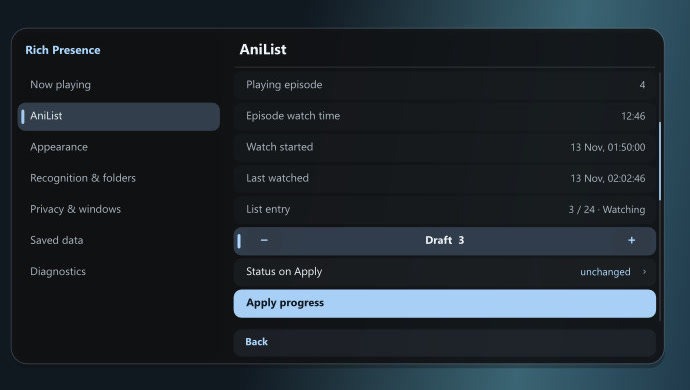
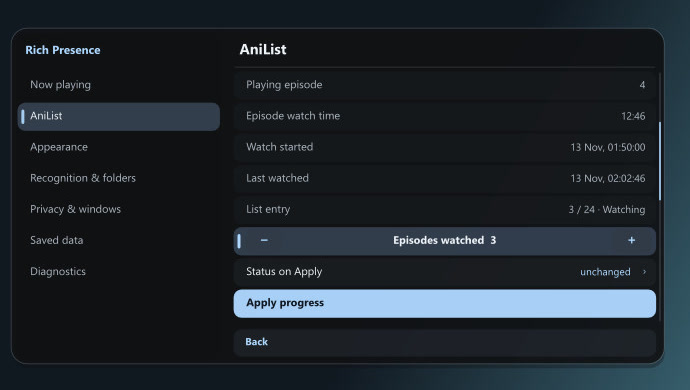
docs(guide): explain folder filters and OSC reviews

diff --git a/docs/user-guide.md b/docs/user-guide.md
@@ -55,7 +55,9 @@ To open a page from the mpv console, use `script-message-to mpv_rich_presence me
 
 ## Recognize media
 
-**Automatic** uses the v1.0.10 AniList resolver for video, including its season and sequel rules. It tries movie or TV lookup on a completed anime miss. An exact movie title and year from TMDB can disambiguate a feature-length file that loosely matches a much shorter anime from a different year. If AniList is unavailable, the card uses the local title.
+**Automatic** uses the v1.0.10 AniList resolver, including its season and sequel rules. If that search completes without a match, the plugin can try movie or TV lookup. A weak anime match can be overridden by a confirmed live-action TV episode with the same title, season and episode, or by the existing exact title and year check for feature films. Confirmed and manually pinned anime matches keep their priority. If AniList is unavailable, the card uses the local title.
+
+Common camera and screen recording names stay local in Automatic. Short videos with a bare title and no year, episode marker or TMDB ID skip the fallback movie search. Use **Local only** on a file or folder when you always want the filename or embedded metadata.
 
 Movie and TV lookup prefers TMDB. Wikidata and TVmaze provide fallbacks. Air-date episodes use TVmaze. For music, the card starts with local tags. MusicBrainz checks title, credits, duration and release edition, and Cover Art Archive supplies public artwork when available. An embedded cover stays in mpv. If the music tags are incomplete or inconclusive, the plugin can send a Chromaprint fingerprint and the track duration to AcoustID. The audio file stays on your device.
 
@@ -69,6 +71,7 @@ To classify a directory, open a file inside it and choose **Recognition & folder
 | Movies | TMDB movies with Wikidata fallback. |
 | TV | TMDB TV with TVmaze fallback. |
 | Original | AniList for anime and local titles or tags for other media. |
+| Local only | Use local titles and tags. A saved manual match can still apply. |
 
 The effective order is file, nearest matching folder, global panel setting, then `recognition_source` in the conf file. Choose **Inherit recognition source** to remove a rule. Saved match corrections still apply. **Fingerprint this file** runs an explicit AcoustID lookup on local audio.
 
@@ -98,7 +101,7 @@ To use a personal app, register a separate client in [AniList developer settings
 - **Resume unfinished time** is on by default and continues from a saved counter when you reopen an episode. Windows playing the same episode for the same account share that record.
 - **Keep offline proposals** is off by default. Turn it on to save eligible updates locally while AniList is unreachable and review them after refreshing the list entry.
 
-Use the minus and plus buttons around **Draft**, or Left and Right on that row, to adjust the proposed episode count. **Apply progress** opens a confirmation with the account, title and proposed change. The worker rechecks the entry before saving. Ordinary progress edits preserve status, score, notes and repeat count. **Status on Apply** lets you choose a status for a manual edit.
+Use the minus and plus buttons around **Episodes watched**, or Left and Right on that row, to adjust the proposed count. **Apply progress** opens a confirmation with the account, title and proposed change. The worker rechecks the entry before saving. Ordinary progress edits preserve status, score, notes and repeat count. **Status on Apply** lets you choose a status for a manual edit.
 
 Watch tracking uses the matched AniList entry and its resolved season-relative episode number. It needs one identifiable episode. For an entry outside Watching or Rewatching, the first eligible update offers to switch it to Watching or retain the current status. If you keep the status, Automatic mode can advance consecutive episodes until the status changes. A new list entry needs approval.
 
@@ -118,18 +121,22 @@ With **Before leaving**, the player stays responsive while a quit or playlist ac
 
 ![Ask prompt timeout menu showing Never, presets and a custom timeout](../screenshots/panel-timeout.jpg)
 
-Direct commands from an OSC, another script or IPC can leave the file immediately. In that case the ready proposal stays in **Pending updates**. For a custom Next or Quit control, send the command through the review binding to make it wait in **Before leaving** mode. For example, in `input.conf`:
+The standard left-click Next and Previous buttons in mpv's OSC and the standard `next` and `prev` controls in uosc use the same review route. **End of episode** still waits for natural completion. If you leave before that and return, an eligible pending proposal can appear at the end.
+
+Direct commands from custom OSC controls, other scripts or IPC can leave immediately. The proposal stays in **Pending updates**. Route a custom Next or Quit control through the review binding to make it wait in **Before leaving**. For example, in `input.conf`:
 
 ```ini
 Ctrl+n script-message-to mpv_rich_presence review-before "playlist-next weak"
 Ctrl+q script-message-to mpv_rich_presence review-before "quit-watch-later"
 ```
 
-For uosc, replace the `next` item in `controls` in `script-opts/uosc.conf` with `command:arrow_forward_ios:script-message-to mpv_rich_presence review-before "script-binding uosc/next"?Next` to keep uosc's directory and playlist navigation.
-
 ## Manage privacy and saved data
 
 **Privacy & windows** can hide only the card, switch to a generic card, or start a private session that stops both lookups and tracking. Folder exclusions and private sessions take precedence. **Track while hidden** lets AniList continue when Discord sharing is off and the file is otherwise eligible. A new or resumed file can claim Discord unless another player is pinned.
+
+Open **Folder filters** from **Privacy & windows** or **Recognition & folders**. Review whether the current file passes, choose a filter mode, and add or remove folders. These edits apply across mpv windows and override the conf. **Restore conf filter** returns both settings to their file values. An exception can allow just the open file or all local files in the current window until it closes. Exceptions still honor private sessions and separate exclusions.
+
+**Saved data** groups profiles, matches, caches and the current account's AniList records. Open a category to search or clear its entries. Metadata cache rows show their provider and expiry rather than the internal key. Hover for the key and the effect of clearing the record.
 
 The database lives in `scripts/mpv-rich-presence/data.sqlite3` under your config directory. **Clear watch** resets the affected counters and removes their pending proposals and skips. If you keep watching the same episode, it can qualify again once it earns the threshold. Completed local history and saved AniList progress are kept. **Reset everything** clears the local profiles, matches, caches and history, disconnects the account and restores the conf defaults. It leaves your AniList list as it is.
 
@@ -147,7 +154,7 @@ Edit `script-opts/rich-presence.conf` in your mpv config directory and restart m
 | `on` | `yes` | Starts Discord sharing. Set `no` to start with sharing off. **Track while hidden** can separately permit lookups for eligible AniList tracking. |
 | `folder_filter_mode` | `disabled` | Use `whitelist` to allow only listed folders or `blacklist` to exclude listed folders. The filter covers subfolders, Discord sharing and lookups. An empty whitelist allows no files. An empty blacklist excludes none. |
 | `folder_list` | Empty | Absolute folder paths separated by semicolons. Quotes are optional. For example, `D:\Anime;E:\Videos\Movies`. |
-| `recognition_source` | `auto` | Pick the default recognition mode. Library choices are `auto`, `anime`, `movie-tv`, `movie`, `tv` and `original`. Provider-specific values are `tmdb-movie`, `tmdb-tv`, `tvmaze`, `wikidata`, `musicbrainz`, `acoustid` and `stream`. See [Recognize media](#recognize-media) for the library choices. |
+| `recognition_source` | `auto` | Pick the default recognition mode. Library choices are `auto`, `anime`, `movie-tv`, `movie`, `tv`, `original` and `local`. Provider-specific values are `tmdb-movie`, `tmdb-tv`, `tvmaze`, `wikidata`, `musicbrainz`, `acoustid` and `stream`. See [Recognize media](#recognize-media) for the library choices. |
 | `pause_timeout` | `1800` | Seconds of paused playback before Discord hides the card. Use `0` to disable the timeout. |
 
 ### Appearance and panel

diff --git a/docs/verification.md b/docs/verification.md
@@ -22,6 +22,7 @@ The in-player interface and tracking build on [`v1.0.10`](https://github.com/Sir
 - `python -B tests/live_signin.py <installed-package> <mpv-executable>`: interactive, read-only public sign-in. It verifies Viewer, checks session-only storage, closes mpv and deletes the disposable config. It never edits the list.
 - `python -B tests/live_anime_match.py <package-or-install> <mpv-executable> <ffmpeg-executable>`: verify that the season-two filename resolves to Youjo Senki II episode 8 and an AniList outage keeps movie and TV fallback disabled. The test generates its own footage and disables Discord sharing.
 - `python -B tests/live_ask_prompt.py <package.zip> <mpv-executable> <ffmpeg-executable>`: exercise timed and untimed reviews, quit, window close, Next, and natural playlist advance with a saved local proposal. Add `--capture <file.jpg>` to check the graphical EOF prompt and capture it in mpv.
+- Add `--uosc <uosc-script-directory>` to the Ask check to exercise Next and Previous through a local uosc install, including review at natural EOF after returning to an episode.
 
 The public sign-in check passed on Windows on 6 November 2026. Windows and Linux builds, regression suites and packaged menu checks have passed. Captures have been inspected over bright footage in wide and narrow windows. Tests use disposable data rather than the user's installed mpv configuration.
 

diff --git a/README.md b/README.md
@@ -51,6 +51,7 @@ To classify a folder and its subfolders, open a file inside it and choose **Reco
 | **Movies** | TMDB movies, with Wikidata as a fallback. |
 | **TV** | TMDB TV, with TVmaze as a fallback and for air-date episodes. |
 | **Original** | AniList for anime and local titles or tags for other media. |
+| **Local only** | Use mpv's local title or tags. Saved manual matches can still apply. |
 
 - **Automatic**, **Anime** and **Original** use the v1.0.10 anime resolver. A saved file rule takes priority over the nearest folder rule, global panel settings and the conf default.
 - Music starts with the file's tags. MusicBrainz and Cover Art Archive can fill in metadata and artwork. The Windows and Linux packages include `fpcalc` for AcoustID fingerprinting.
@@ -95,7 +96,7 @@ To classify a folder and its subfolders, open a file inside it and choose **Reco
 
 | Now Playing | AniList Progress |
 | :---: | :---: |
-| ![Now playing panel](screenshots/panel-now-playing.jpg) | ![AniList progress draft](screenshots/panel-anilist.jpg) |
+| ![Now playing panel](screenshots/panel-now-playing.jpg) | ![AniList Episodes watched control](screenshots/panel-anilist.jpg) |
 
 | Ask Prompt | Timeout Options |
 | :---: | :---: |
